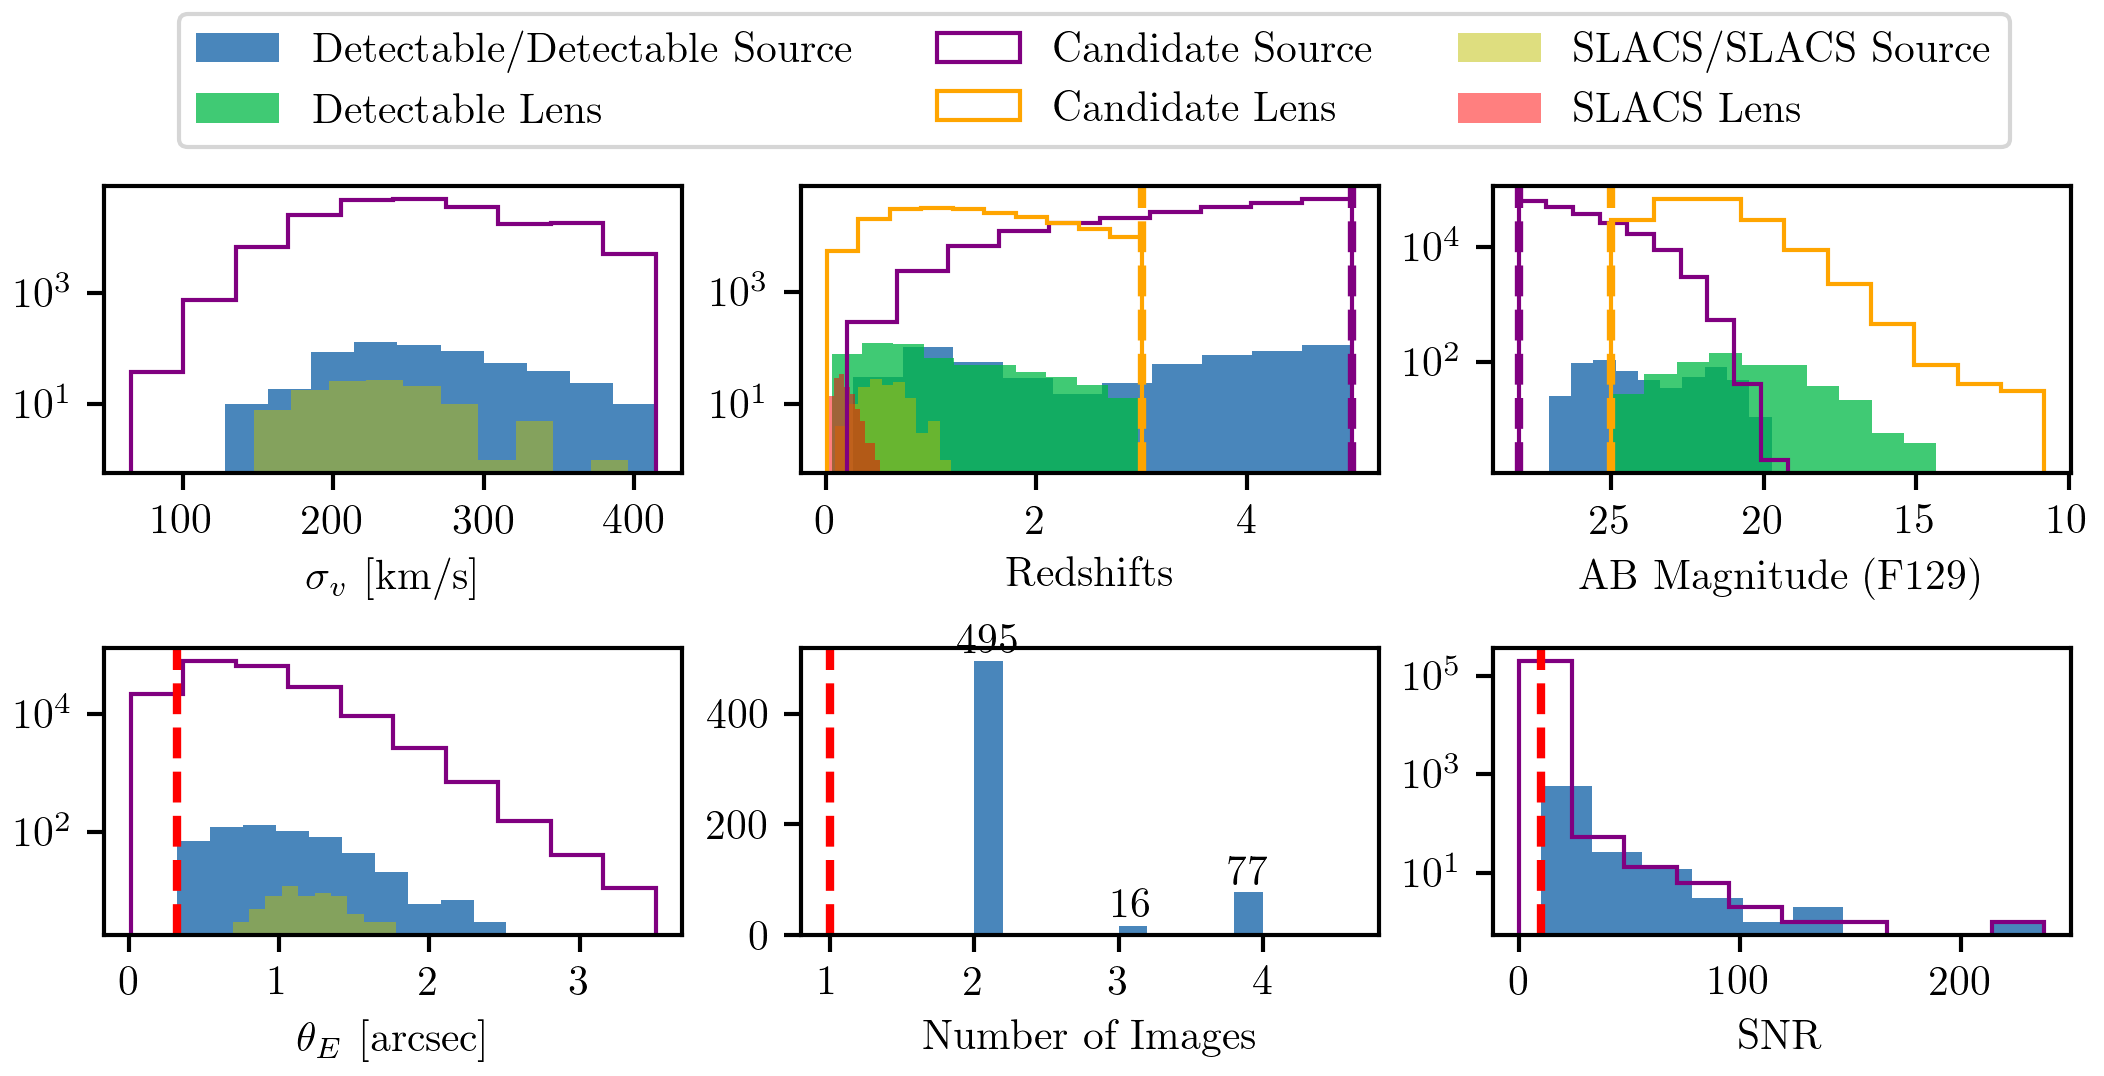
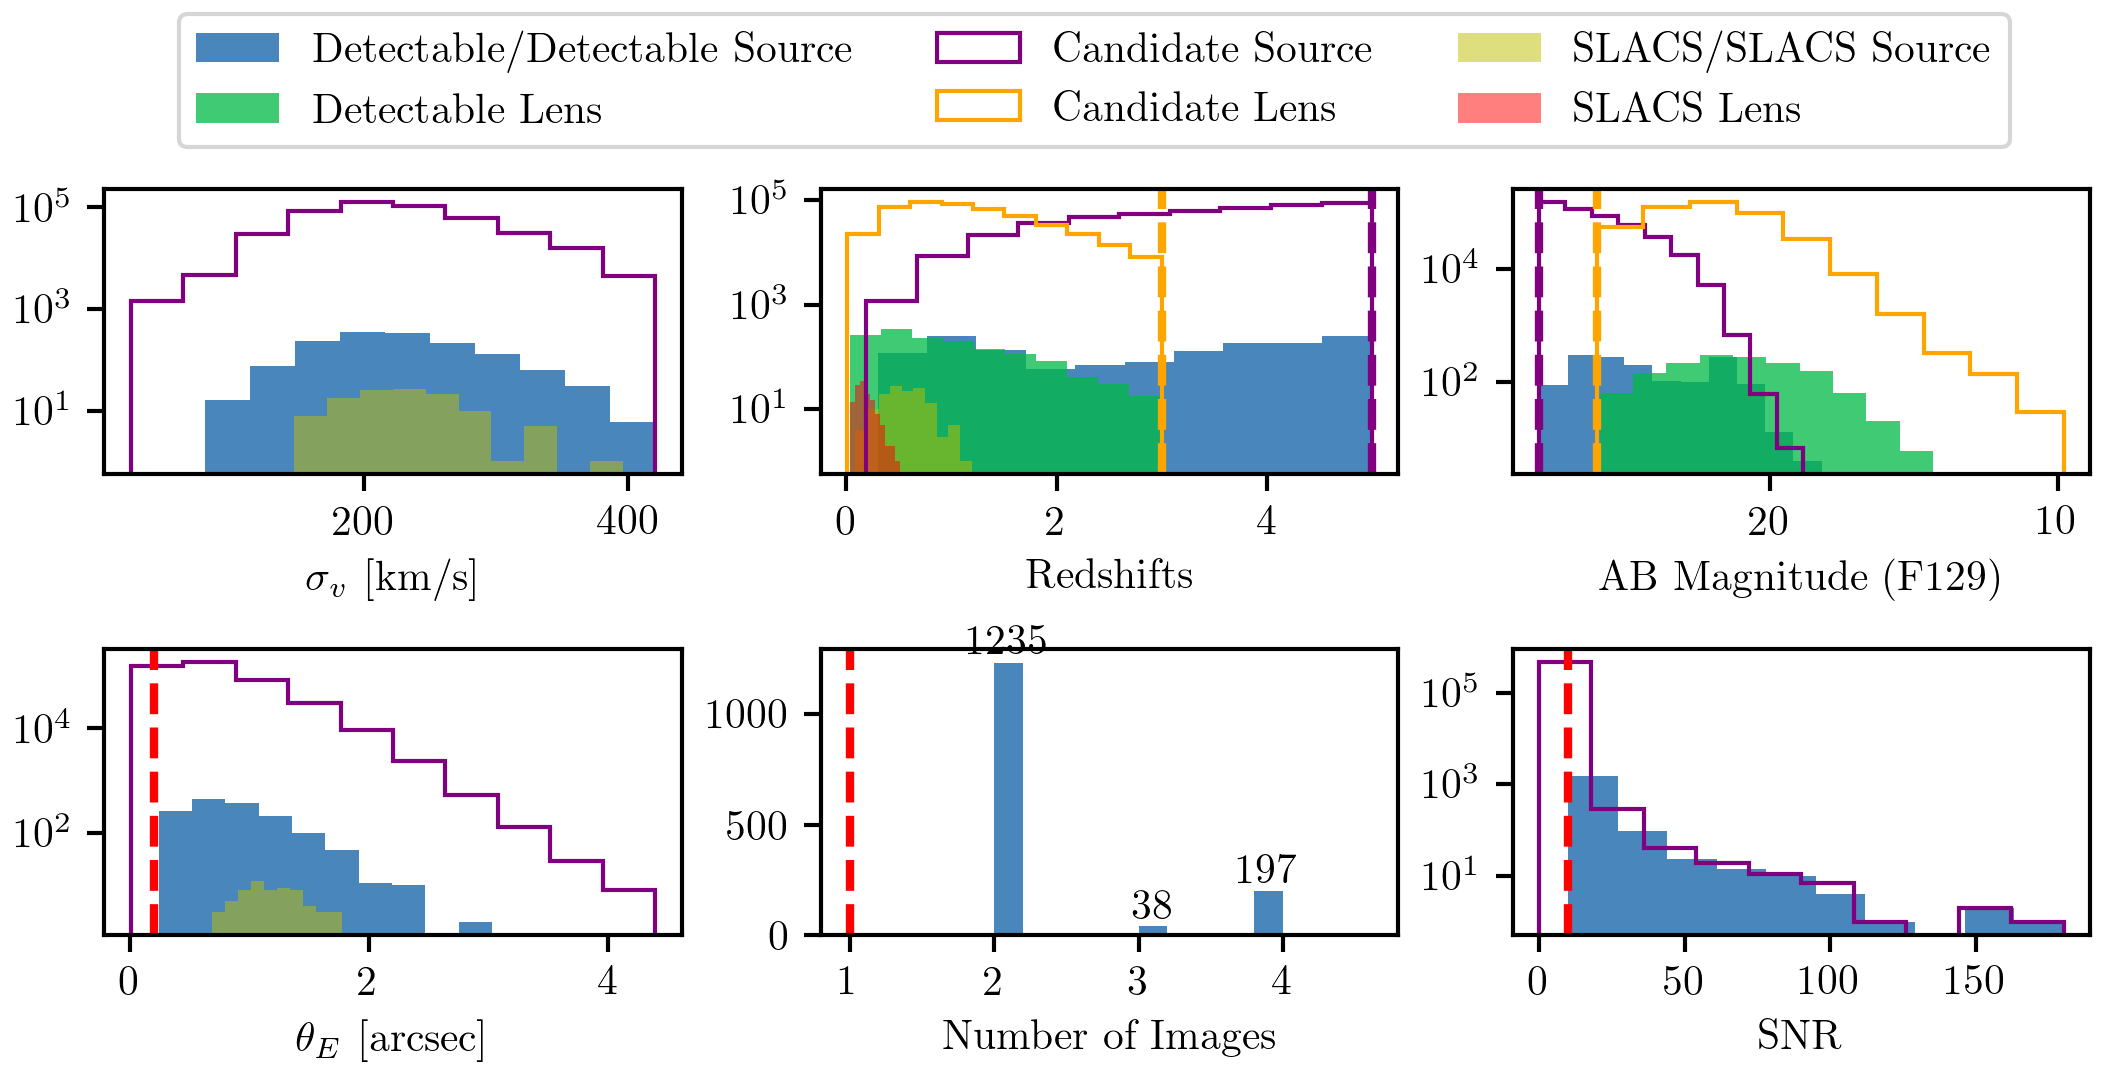
execute pipeline through 03

diff --git a/pipeline/scripts/02_add_subhalos.py b/pipeline/scripts/02_add_subhalos.py
@@ -6,6 +6,7 @@ from multiprocessing import Pool
 
 import hydra
 import numpy as np
+from astropy.cosmology import default_cosmology
 from pyHalo.preset_models import CDM
 from tqdm import tqdm
 
@@ -80,7 +81,8 @@ def add(tuple):
     log_mhigh = pipeline_params['log_mhigh']
 
     log_m_host = np.log10(lens.main_halo_mass)
-    kwargs_cosmo = util.get_kwargs_cosmo(lens.cosmo)
+    # kwargs_cosmo = util.get_kwargs_cosmo(lens.cosmo)  # TODO UPDATE 
+    kwargs_cosmo = util.get_kwargs_cosmo(default_cosmology.get())
     # circumvent bug with pyhalo, sometimes fails when redshifts have more than 2 decimal places
     z_lens = round(lens.z_lens, 2)
     z_source = round(lens.z_source, 2)
@@ -96,8 +98,8 @@ def add(tuple):
                               cone_opening_angle_arcsec=subhalo_cone,
                               LOS_normalization=los_normalization,
                               kwargs_cosmo=kwargs_cosmo)
-    except:
-        print(f'Failed to generate subhalos for lens {lens.uid}')
+    except Exception as e:
+        print(f'Failed to generate subhalos for lens {lens.uid}: {e}')        
         return
 
     # add subhalos
